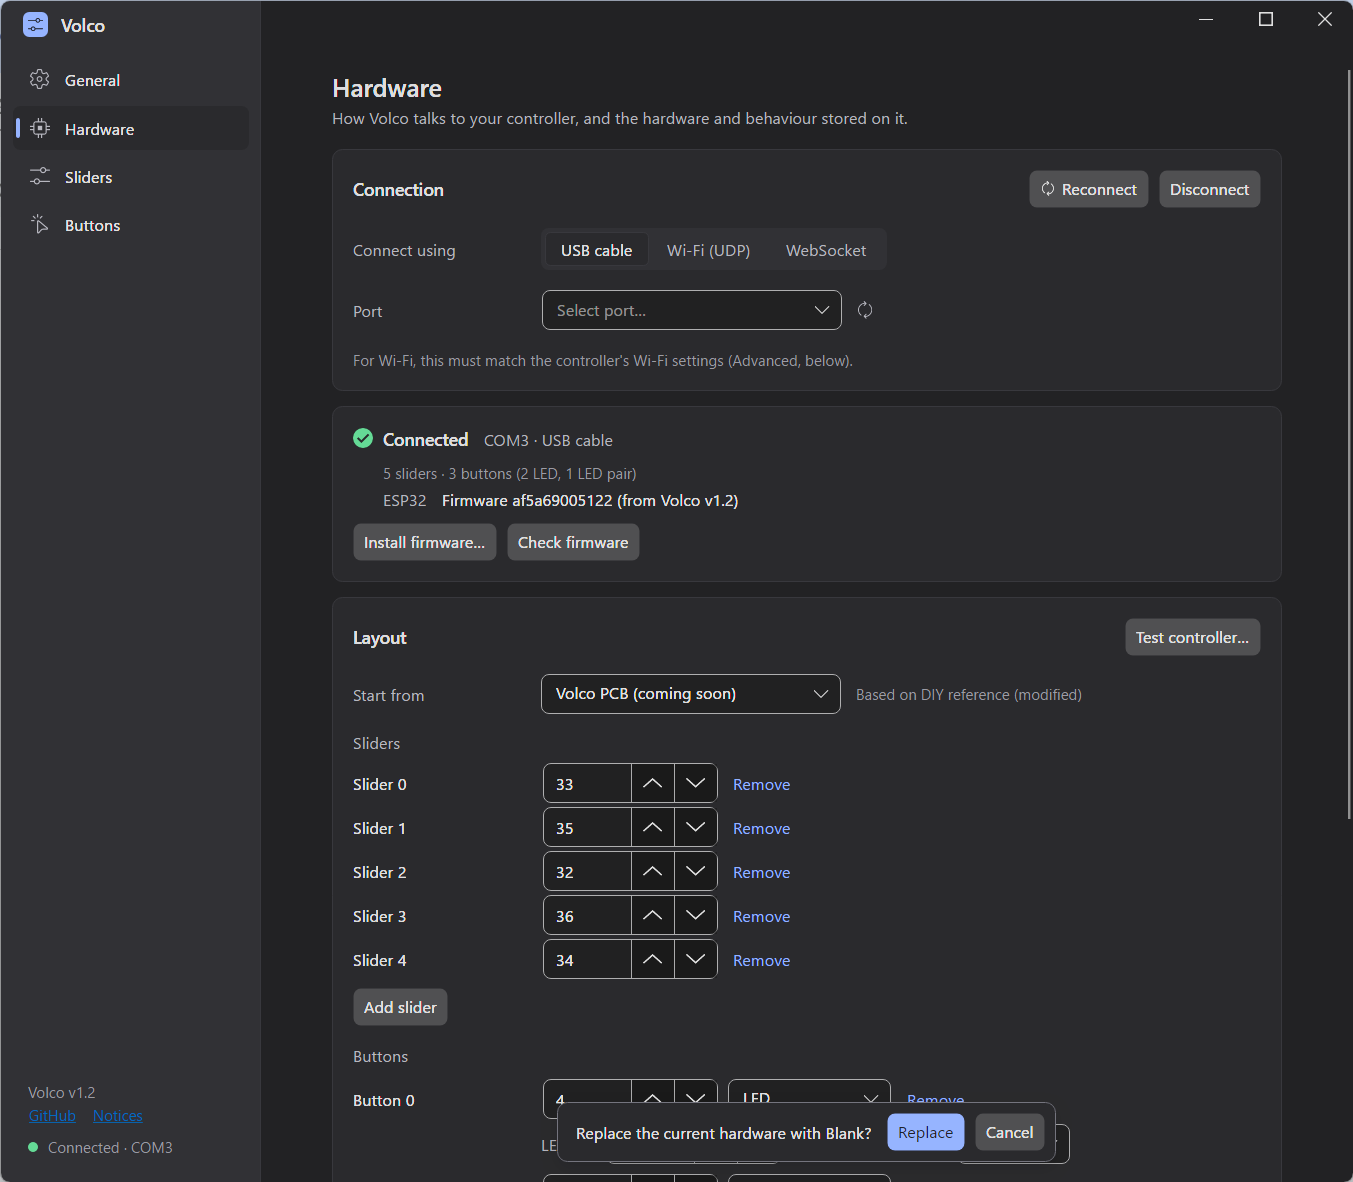
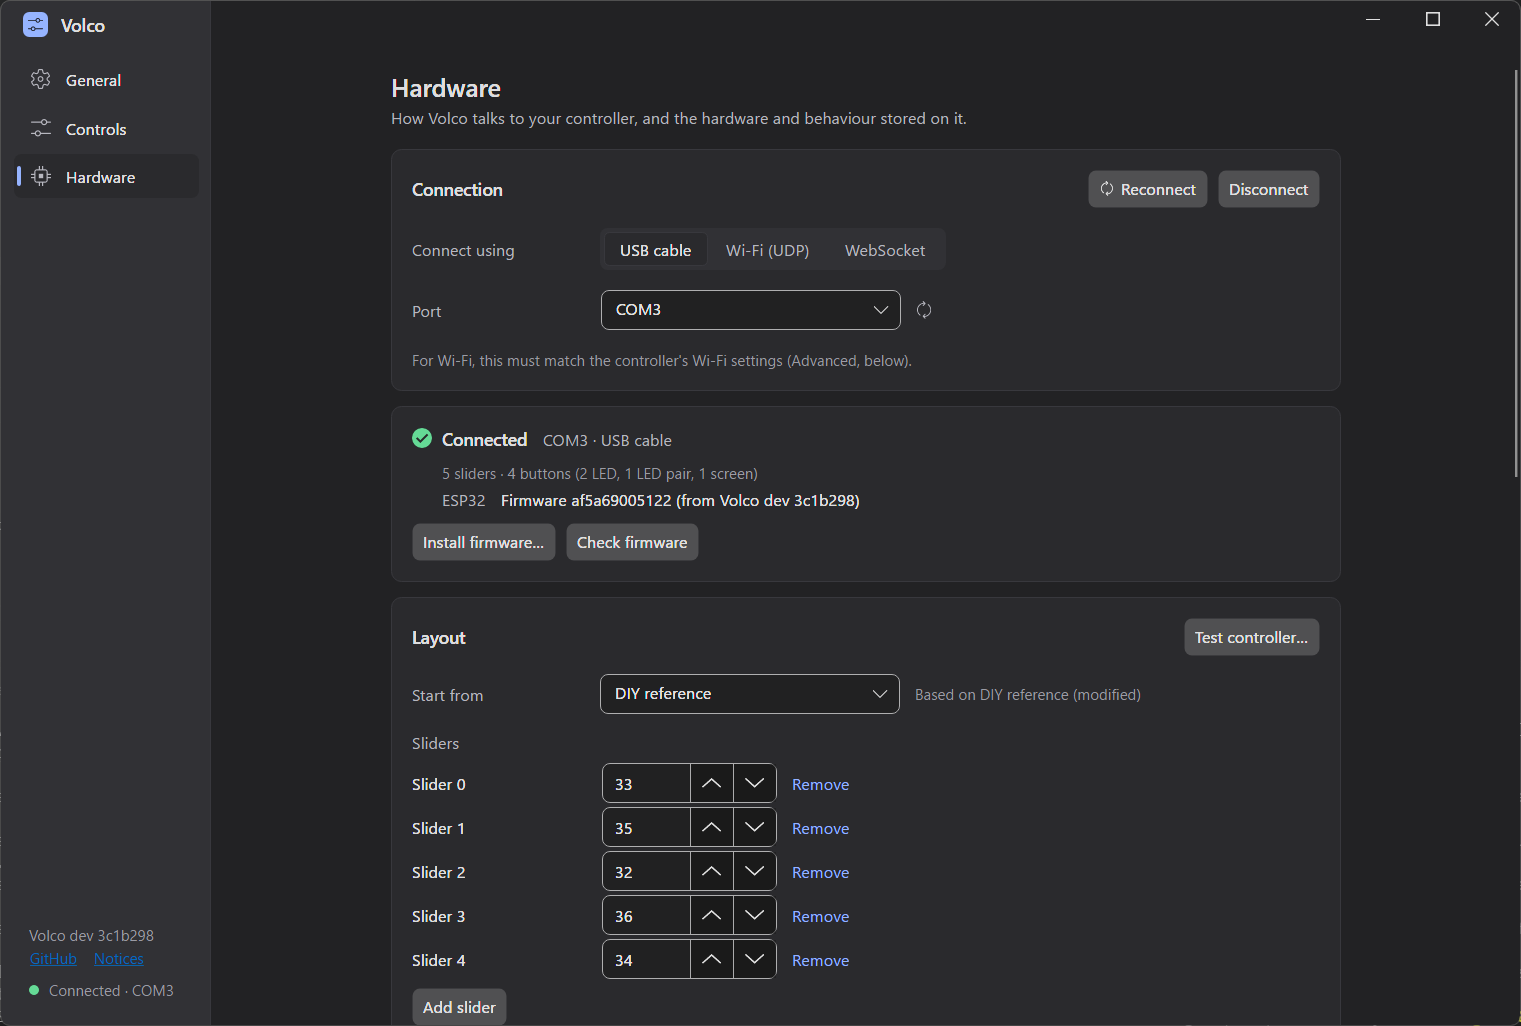
fix: a device renamed in Windows is renamed in Volco at once; README screenshots
- Any property change of a device re-reads its friendly name (a rename in
  Sound settings writes the description; the notification's key varies).
- The runtime keeps the stored Windows name of every device reference current
  by id (sliders and actions, not only customized devices), before telling the
  UI and at startup; slider pickers re-read it. A nickname set in Volco still
  wins over the Windows name.
- README: the Controls screenshot, a new Hardware one; the old Sliders and
  Buttons images are gone.

diff --git a/src/Volco.Core/Runtime/VolcoRuntime.cs b/src/Volco.Core/Runtime/VolcoRuntime.cs
@@ -654,6 +654,9 @@ public sealed class VolcoRuntime : IDisposable, IModeController, IConfigSessionL
             Config.Save();
         }
 
+        // A device renamed in Windows while Volco was closed: the stored names follow.
+        if (_audioReady && RefreshStoredDeviceNames()) Config.Save();
+
         Config.ConnectionConfigChanged += OnConfigChanged;
         Config.ConfigChanged += OnSettingsChanged;
 
@@ -1132,8 +1135,9 @@ public sealed class VolcoRuntime : IDisposable, IModeController, IConfigSessionL
         // show up in the pickers even when it isn't the new default. So every kind is forwarded
         // as DevicesChanged; subscribers marshal to the UI thread themselves (this handler runs
         // on the audio thread), and with no settings window open there are simply no subscribers.
-        DevicesChanged?.Invoke(this, e);
+        // Stored names first: the UI re-reads them when it hears of the change (a rename).
         if (RefreshStoredDeviceNames()) Config.RequestSave();
+        DevicesChanged?.Invoke(this, e);
 
         if (e.Kind is DeviceChangeKind.Added or DeviceChangeKind.StateChanged)
         {
@@ -1174,18 +1178,37 @@ public sealed class VolcoRuntime : IDisposable, IModeController, IConfigSessionL
         PushControllerState();
     }
 
-    /// <summary>Keeps each customized device's stored Windows name current (spec §5.1).</summary>
+    /// <summary>Keeps the stored Windows name of every device the config names current, by id
+    /// (spec §5.1): each customized device's, and each slider's and action's device reference,
+    /// whose name the settings UI shows and falls back to. A device renamed in Windows is then
+    /// named anew everywhere a nickname does not override it.</summary>
     private bool RefreshStoredDeviceNames()
     {
         var changed = false;
         var live = Audio.GetDevices(AudioFlow.Render).Concat(Audio.GetDevices(AudioFlow.Capture)).ToList();
+        string? NameOf(string? id)
+            => string.IsNullOrEmpty(id) ? null
+               : live.Find(d => string.Equals(d.Id, id, StringComparison.OrdinalIgnoreCase))?.FriendlyName;
         foreach (var entry in Config.Config.Devices.ToList())
         {
-            var device = live.Find(d => string.Equals(d.Id, entry.Id, StringComparison.OrdinalIgnoreCase));
-            if (device is null || device.FriendlyName == entry.FriendlyName) continue;
-            entry.FriendlyName = device.FriendlyName;
+            if (NameOf(entry.Id) is not { Length: > 0 } name || name == entry.FriendlyName) continue;
+            entry.FriendlyName = name;
             changed = true;
         }
+        void Refresh(DeviceRefConfig? reference)
+        {
+            if (reference is null || NameOf(reference.Id) is not { Length: > 0 } name || name == reference.FriendlyName) return;
+            reference.FriendlyName = name;
+            changed = true;
+        }
+        foreach (var slider in Config.Config.Sliders.ToList()) Refresh(slider.Device);
+        foreach (var button in Config.Config.Buttons.ToList())
+            foreach (var binding in button.Actions.Values.ToList())
+                foreach (var action in binding.All())
+                {
+                    Refresh(action.Device);
+                    Refresh(action.DeviceB);
+                }
         return changed;
     }
 

diff --git a/tests/Volco.App.Tests/Shell/CrossPageRefreshTests.cs b/tests/Volco.App.Tests/Shell/CrossPageRefreshTests.cs
@@ -119,4 +119,35 @@ public class CrossPageRefreshTests
         Assert.Contains(nameof(DeviceItemViewModel.UsedBy), changed);
         Assert.Contains(nameof(DeviceItemViewModel.CanForget), changed);
     }
+
+    [AvaloniaFact]
+    public void DeviceRenamedInWindows_LabelsFollow_UnlessTheUserNamedIt()
+    {
+        var (window, rig, vm) = Open(c =>
+        {
+            c.Sliders[0].Type = SliderMappingType.Device;
+            c.Sliders[0].Device = new DeviceRefConfig { Id = "dev-2", FriendlyName = "Headphones" };
+            c.Sliders[1].Type = SliderMappingType.Device;
+            c.Sliders[1].Device = new DeviceRefConfig { Id = "dev-1", FriendlyName = "Speakers" };
+            c.Devices.Add(new DeviceSettingsConfig { Id = "dev-1", FriendlyName = "Speakers", Nickname = "Desk" });
+        });
+        using var _ = rig; using var __ = vm;
+        Show(window, "controls");
+        var page = Assert.IsType<ControlsPage>(window.CurrentPage);
+        Assert.Equal("Headphones", In<TextBlock>(page, "TargetText").Text);   // slider 1 is selected
+
+        // Both are renamed in Windows' Sound settings while Volco runs.
+        var arctis = new AudioDevice("dev-2", "Arctis 7 (USB Audio)", AudioFlow.Render, false);
+        var monitor = new AudioDevice("dev-1", "Monitor (HDMI)", AudioFlow.Render, true);
+        rig.Engine.Devices[1] = arctis;
+        rig.Engine.Devices[0] = monitor;
+        rig.Engine.RaiseDeviceChanged(DeviceChangeKind.StateChanged, arctis);
+        rig.Engine.RaiseDeviceChanged(DeviceChangeKind.StateChanged, monitor);
+        Dispatcher.UIThread.RunJobs();
+
+        Assert.Equal("Arctis 7", In<TextBlock>(page, "TargetText").Text);
+        Assert.Equal("Arctis 7", vm.Sliders.Items[0].Label);
+        Assert.Equal("Desk", vm.Sliders.Items[1].Label);   // the user's own name wins
+        Assert.Equal("Monitor (HDMI)", rig.Config.Config.FindDevice("dev-1")!.FriendlyName);
+    }
 }

diff --git a/tests/Volco.Core.Tests/Runtime/VolcoRuntimeTests.cs b/tests/Volco.Core.Tests/Runtime/VolcoRuntimeTests.cs
@@ -1307,6 +1307,34 @@ public sealed class VolcoRuntimeTests : IDisposable
     }
 
     [Fact]
+    public void DeviceRenamedInWindows_SliderAndActionNamesFollow_BeforeTheUiHears()
+    {
+        var config = NewConfig(c =>
+        {
+            c.Sliders[0].Type = SliderMappingType.Device;
+            c.Sliders[0].Device = new DeviceRefConfig { Id = Speakers, FriendlyName = "Old name" };
+            c.Buttons[1].Default().SinglePress = new ButtonActionConfig
+            {
+                Action = ButtonActionType.ToggleOutputDevice,
+                Device = new DeviceRefConfig { Id = Speakers, FriendlyName = "Old name" },
+                DeviceB = new DeviceRefConfig { Id = "gone", FriendlyName = "Unplugged" },
+            };
+        });
+        var runtime = StartRuntime(config);
+        string? seenByUi = null;
+        runtime.DevicesChanged += (_, _) => seenByUi = config.Config.Sliders[0].Device!.FriendlyName;
+        var renamed = new AudioDevice(Speakers, "Desk (Realtek)", AudioFlow.Render, true);
+        _engine.Devices[0] = renamed;
+
+        _engine.RaiseDeviceChanged(DeviceChangeKind.StateChanged, renamed);
+
+        Assert.Equal("Desk (Realtek)", config.Config.Sliders[0].Device!.FriendlyName);
+        Assert.Equal("Desk (Realtek)", config.Config.Buttons[1].Default().SinglePress.Device!.FriendlyName);
+        Assert.Equal("Unplugged", config.Config.Buttons[1].Default().SinglePress.DeviceB!.FriendlyName);
+        Assert.Equal("Desk (Realtek)", seenByUi);
+    }
+
+    [Fact]
     public void MuteOsd_UsesTheNickname()
     {
         var config = NewConfig(c => c.Devices.Add(new DeviceSettingsConfig { Id = Speakers, Nickname = "Desk speakers" }));

diff --git a/src/Volco.App/ViewModels/SliderItemViewModel.cs b/src/Volco.App/ViewModels/SliderItemViewModel.cs
@@ -314,12 +314,15 @@ public partial class SliderItemViewModel : ObservableObject, IDeviceLabeler
             : $"Controls every app that no other slider lists (everything except {string.Join(", ", claimedByOthers)}).";
 
     /// <summary>
-    /// Re-seeds the device picker after a device was plugged in or removed. Re-asserts the current
-    /// selection without saving; a device that is gone simply shows no selection.
+    /// Re-seeds the device picker after a device was plugged in, removed or renamed. Re-reads the
+    /// selection from the config (whose stored name the runtime keeps current) without saving; a
+    /// device that is gone simply shows no selection.
     /// </summary>
     public void RefreshDevices(IReadOnlyList<AudioDevice> devices)
     {
-        var keep = SelectedDevice;
+        var keep = Config.Type == SliderMappingType.Device && Config.Device is { FriendlyName.Length: > 0 } configured
+            ? configured.FriendlyName
+            : SelectedDevice;
         _loading = true;
         try
         {

diff --git a/src/Volco.Windows/Audio/DeviceRegistry.cs b/src/Volco.Windows/Audio/DeviceRegistry.cs
@@ -665,10 +665,10 @@ internal sealed class DeviceRegistry : IDisposable, IMMNotificationClient
 
     void IMMNotificationClient.OnPropertyValueChanged(PCWSTR pwstrDeviceId, PROPERTYKEY key)
     {
-        // A rename in Windows (Sound settings) changes the friendly name. Other properties change
-        // often and are of no interest. Comparing the key is plain memory, no COM.
-        var name = PInvoke.PKEY_Device_FriendlyName;
-        if (key.fmtid != name.fmtid || key.pid != name.pid) return;
+        // A rename in Windows (Sound settings) writes the device description, and the friendly
+        // name is derived from it; which key the notification names varies, so any property
+        // change re-reads the name on the audio thread, which raises a change only when the name
+        // differs (ApplyNameChanged).
         Enqueue(PendingChange.NameChanged(pwstrDeviceId.ToString() ?? string.Empty));
     }
 

diff --git a/README.md b/README.md
@@ -77,7 +77,7 @@ You don't need my board, though. Volco works with **any layout you wire up**: as
 
 <table>
 <tr>
-<td colspan="2" align="center"><!-- TODO(Tomer): screenshot of the Controls page --><sub><b>Controls:</b> your sliders and buttons as a drawing of the controller; pick one to set what it does</sub></td>
+<td colspan="2" align="center"><a href="docs/images/app-controls.png"><img src="docs/images/app-controls.png" alt="Volco's Controls page: five sliders (Main output, Headphones, Wardogs, Spotify with its icon, All other apps) above four buttons in the Default mode, one with a screen showing Spotify playing; the inspector edits Button 2's press, double press and hold" width="70%"></a><br><sub><b>Controls:</b> your sliders and buttons as a drawing of the controller; pick one to set what it does</sub></td>
 </tr>
 <tr>
 <td colspan="2" align="center"><a href="docs/images/app-hardware.png"><img src="docs/images/app-hardware.png" alt="Volco's Hardware page: connected over USB, the firmware version, and the controller's slider and button pins" width="50%"></a><br><sub><b>Hardware:</b> the connection, the firmware, and the layout stored on the controller</sub></td>
